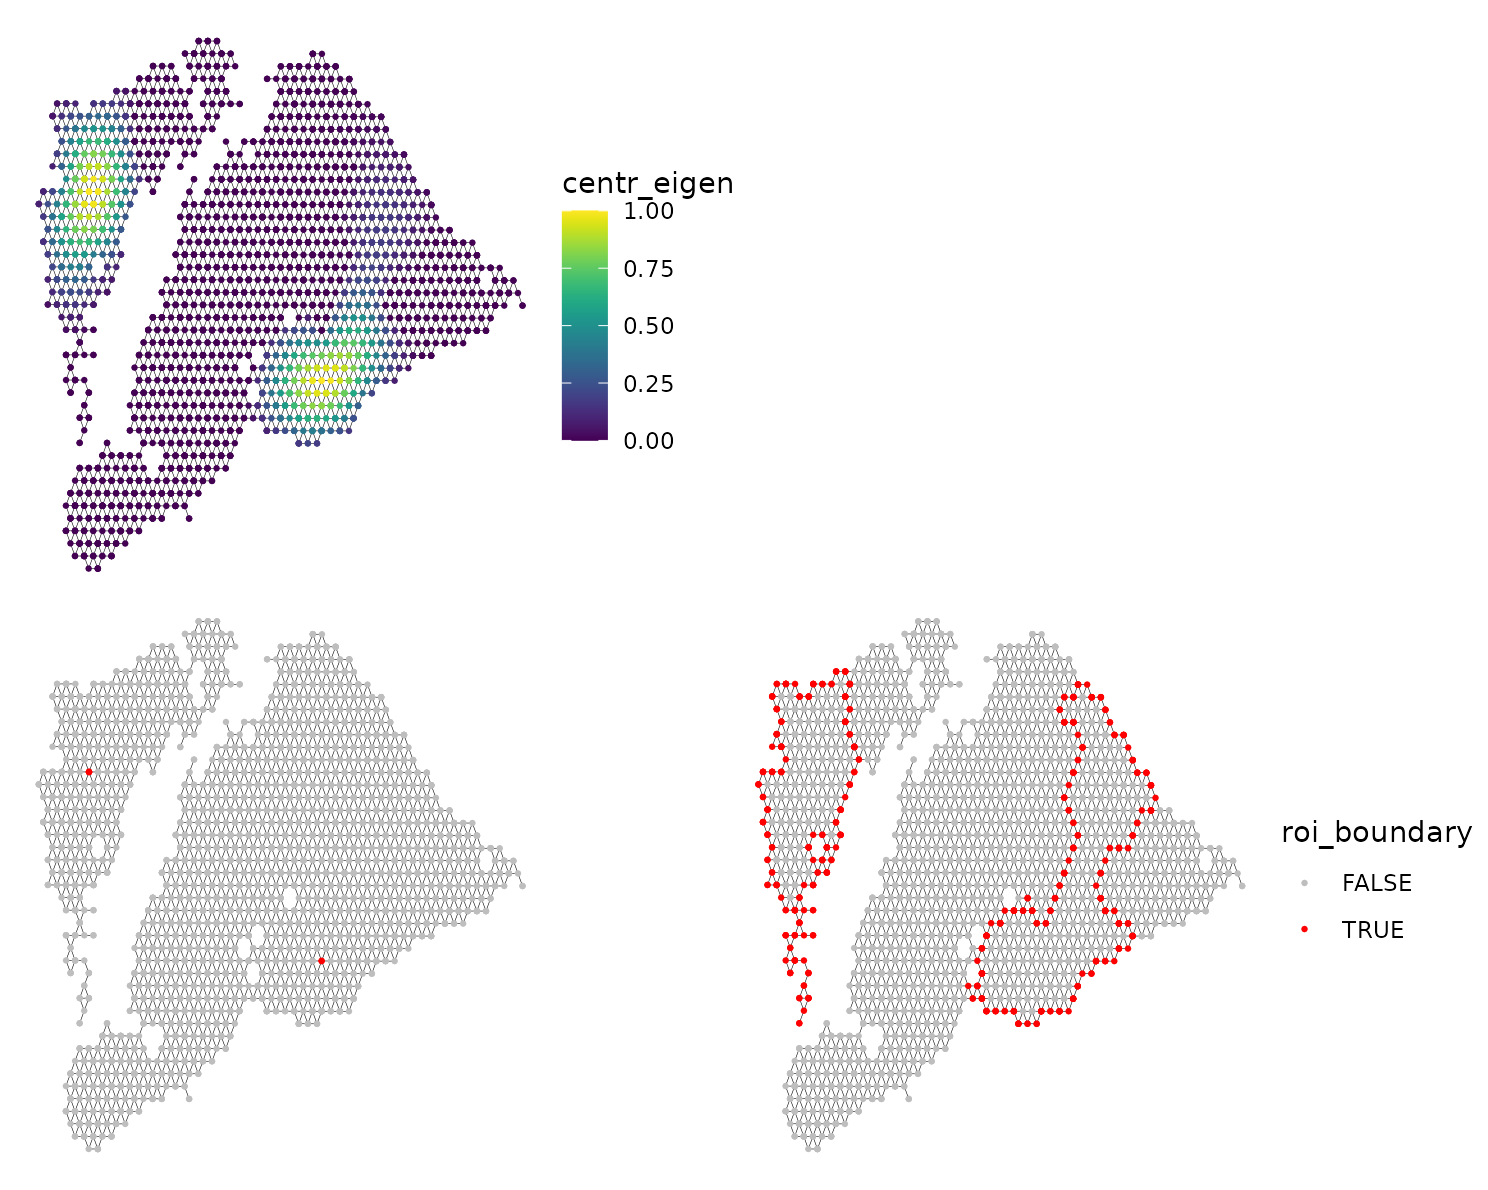
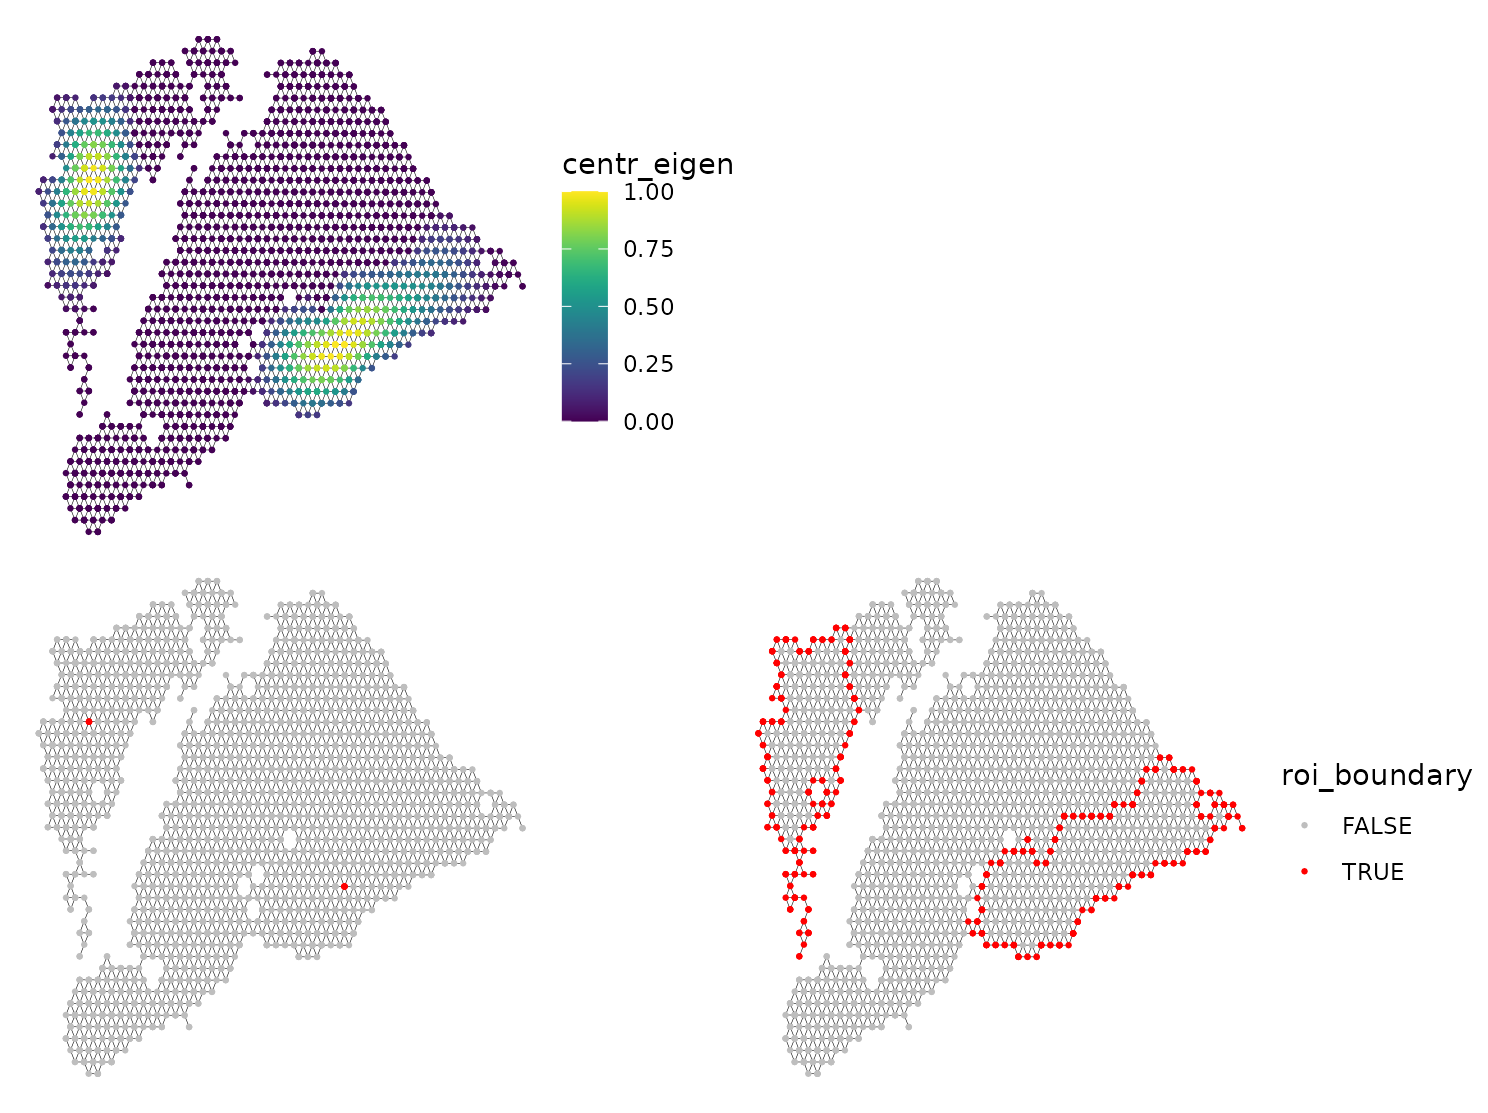
Deploying to gh-pages from @ Sanin-Lab/SpotGraphs@1dc9145fee3cc7eca2e233b6a130dc74d7d875b6 🚀

diff --git a/articles/NeighborhoodCenters.html b/articles/NeighborhoodCenters.html
@@ -103,8 +103,7 @@ to demonstrate <code><a href="../reference/NeighborhoodCenters.html">Neighborhoo
 <span></span>
 <span><span class="va">coord</span> <span class="op">=</span> <span class="fu">Seurat</span><span class="fu">::</span><span class="fu"><a href="https://satijalab.github.io/seurat-object/reference/GetTissueCoordinates.html" class="external-link">GetTissueCoordinates</a></span><span class="op">(</span><span class="va">scc_s1</span><span class="op">)</span></span>
 <span><span class="va">coord</span> <span class="op">=</span> <span class="fu"><a href="https://rdrr.io/r/base/data.frame.html" class="external-link">data.frame</a></span><span class="op">(</span>x <span class="op">=</span> <span class="va">coord</span><span class="op">$</span><span class="va">x</span>, y <span class="op">=</span> <span class="op">-</span><span class="va">coord</span><span class="op">$</span><span class="va">y</span><span class="op">)</span></span></code></pre></div>
-<p>Perform some spot-level filtering (in the same fashion as in the
-Getting Starting vignette)</p>
+<p>Perform some spot-level filtering (in the same fashion as in the <a href="SpotGraphs.Rmd">Get Started</a> vignette.</p>
 <div class="sourceCode" id="cb3"><pre class="downlit sourceCode r">
 <code class="sourceCode R"><span><span class="va">ig</span> <span class="op">=</span> <span class="fu"><a href="../reference/SpotGraph.html">SpotGraph</a></span><span class="op">(</span><span class="va">coord</span><span class="op">)</span></span>
 <span><span class="va">cl</span> <span class="op">=</span> <span class="fu">igraph</span><span class="fu">::</span><span class="fu"><a href="https://r.igraph.org/reference/cluster_louvain.html" class="external-link">cluster_louvain</a></span><span class="op">(</span><span class="va">ig</span>, resolution <span class="op">=</span> <span class="fl">0</span><span class="op">)</span></span>
@@ -192,7 +191,7 @@ useful when there are several tumor regions within the same tissue
 section. Here, we select three different clusters as regions of
 interest, instead of just one.</p>
 <div class="sourceCode" id="cb8"><pre class="downlit sourceCode r">
-<code class="sourceCode R"><span><span class="va">roi</span> <span class="op">=</span> <span class="va">cl</span><span class="op">$</span><span class="va">membership</span> <span class="op"><a href="https://rdrr.io/r/base/match.html" class="external-link">%in%</a></span> <span class="fu"><a href="https://rdrr.io/r/base/c.html" class="external-link">c</a></span><span class="op">(</span><span class="st">'2'</span>, <span class="st">'4'</span>, <span class="st">'5'</span><span class="op">)</span></span>
+<code class="sourceCode R"><span><span class="va">roi</span> <span class="op">=</span> <span class="va">cl</span><span class="op">$</span><span class="va">membership</span> <span class="op"><a href="https://rdrr.io/r/base/match.html" class="external-link">%in%</a></span> <span class="fu"><a href="https://rdrr.io/r/base/c.html" class="external-link">c</a></span><span class="op">(</span><span class="st">'2'</span>, <span class="st">'5'</span>, <span class="st">'7'</span><span class="op">)</span></span>
 <span><span class="fu"><a href="https://rdrr.io/r/base/names.html" class="external-link">names</a></span><span class="op">(</span><span class="va">roi</span><span class="op">)</span> <span class="op">=</span> <span class="fu"><a href="https://rdrr.io/r/base/names.html" class="external-link">names</a></span><span class="op">(</span><span class="fu">igraph</span><span class="fu">::</span><span class="fu"><a href="https://r.igraph.org/reference/V.html" class="external-link">V</a></span><span class="op">(</span><span class="va">ig</span><span class="op">)</span><span class="op">)</span></span>
 <span><span class="va">res</span> <span class="op">=</span> <span class="fu"><a href="../reference/NeighborhoodCenters.html">NeighborhoodCenters</a></span><span class="op">(</span>coord <span class="op">=</span> <span class="va">coord</span>, is_neighborhood <span class="op">=</span> <span class="va">roi</span><span class="op">)</span></span></code></pre></div>
 <div class="sourceCode" id="cb9"><pre class="downlit sourceCode r">

diff --git a/articles/Interoperability.html b/articles/Interoperability.html
@@ -154,7 +154,7 @@ extract all of the results at once with
 <span><span class="fu"><a href="https://rdrr.io/r/utils/head.html" class="external-link">head</a></span><span class="op">(</span><span class="va">df</span><span class="op">)</span></span>
 <span><span class="co">#&gt;                 name coord_x coord_y is_boundary cluster ecc   centrality</span></span>
 <span><span class="co">#&gt; 1 AAACAAGTATCTCCCA-1    7438    9389       FALSE       1  69 3.244117e-01</span></span>
-<span><span class="co">#&gt; 2 AAACAATCTACTAGCA-1    1802    5327        TRUE       2   6 1.817706e-16</span></span>
+<span><span class="co">#&gt; 2 AAACAATCTACTAGCA-1    1802    5327        TRUE       2   6 4.306545e-16</span></span>
 <span><span class="co">#&gt; 3 AAACACCAATAACTGC-1    8514    3670        TRUE       3  75 3.573227e-02</span></span>
 <span><span class="co">#&gt; 4 AAACAGAGCGACTCCT-1    3122    8840       FALSE       4  64 8.092829e-02</span></span>
 <span><span class="co">#&gt; 5 AAACAGTGTTCCTGGG-1   10193    5323       FALSE       5  74 1.289729e-01</span></span>
@@ -184,7 +184,7 @@ the SpatialExperiment object.</p>
 <span><span class="co">#&gt;                     cluster       ecc  centrality</span></span>
 <span><span class="co">#&gt;                    &lt;factor&gt; &lt;numeric&gt;   &lt;numeric&gt;</span></span>
 <span><span class="co">#&gt; AAACAAGTATCTCCCA-1        1        69 3.24412e-01</span></span>
-<span><span class="co">#&gt; AAACAATCTACTAGCA-1        2         6 1.81771e-16</span></span>
+<span><span class="co">#&gt; AAACAATCTACTAGCA-1        2         6 4.30655e-16</span></span>
 <span><span class="co">#&gt; AAACACCAATAACTGC-1        3        75 3.57323e-02</span></span>
 <span><span class="co">#&gt; AAACAGAGCGACTCCT-1        4        64 8.09283e-02</span></span>
 <span><span class="co">#&gt; AAACAGTGTTCCTGGG-1        5        74 1.28973e-01</span></span>

diff --git a/articles/SpotGraphs.html b/articles/SpotGraphs.html
@@ -126,9 +126,9 @@ the spots on our slide.</p>
 <span></span>
 <span><span class="va">ig</span> <span class="op">=</span> <span class="fu"><a href="../reference/SpotGraph.html">SpotGraph</a></span><span class="op">(</span>coord <span class="op">=</span> <span class="va">coord</span><span class="op">)</span></span>
 <span><span class="va">ig</span></span>
-<span><span class="co">#&gt; IGRAPH d4b129d UN-- 1185 3189 -- </span></span>
+<span><span class="co">#&gt; IGRAPH 56e6f9e UN-- 1185 3189 -- </span></span>
 <span><span class="co">#&gt; + attr: name (v/c), coord_x (v/n), coord_y (v/n), is_boundary (v/l)</span></span>
-<span><span class="co">#&gt; + edges from d4b129d (vertex names):</span></span>
+<span><span class="co">#&gt; + edges from 56e6f9e (vertex names):</span></span>
 <span><span class="co">#&gt;  [1] 1 --175  1 --522  1 --562  1 --718  1 --983  1 --1073 2 --86   2 --1130</span></span>
 <span><span class="co">#&gt;  [9] 3 --31   3 --326  3 --358  3 --680  3 --696  3 --1168 4 --37   4 --38  </span></span>
 <span><span class="co">#&gt; [17] 4 --128  4 --216  4 --691  4 --1109 5 --473  5 --734  5 --799  5 --807 </span></span>

diff --git a/articles/Interoperability.md b/articles/Interoperability.md
@@ -109,7 +109,7 @@ df = as.data.frame(vertex_attr(ig))
 head(df)
 #>                 name coord_x coord_y is_boundary cluster ecc   centrality
 #> 1 AAACAAGTATCTCCCA-1    7438    9389       FALSE       1  69 3.244117e-01
-#> 2 AAACAATCTACTAGCA-1    1802    5327        TRUE       2   6 1.817706e-16
+#> 2 AAACAATCTACTAGCA-1    1802    5327        TRUE       2   6 4.306545e-16
 #> 3 AAACACCAATAACTGC-1    8514    3670        TRUE       3  75 3.573227e-02
 #> 4 AAACAGAGCGACTCCT-1    3122    8840       FALSE       4  64 8.092829e-02
 #> 5 AAACAGTGTTCCTGGG-1   10193    5323       FALSE       5  74 1.289729e-01
@@ -142,7 +142,7 @@ head(colData(spe))
 #>                     cluster       ecc  centrality
 #>                    <factor> <numeric>   <numeric>
 #> AAACAAGTATCTCCCA-1        1        69 3.24412e-01
-#> AAACAATCTACTAGCA-1        2         6 1.81771e-16
+#> AAACAATCTACTAGCA-1        2         6 4.30655e-16
 #> AAACACCAATAACTGC-1        3        75 3.57323e-02
 #> AAACAGAGCGACTCCT-1        4        64 8.09283e-02
 #> AAACAGTGTTCCTGGG-1        5        74 1.28973e-01

diff --git a/articles/NeighborhoodCenters.md b/articles/NeighborhoodCenters.md
@@ -39,8 +39,9 @@ coord = Seurat::GetTissueCoordinates(scc_s1)
 coord = data.frame(x = coord$x, y = -coord$y)
 ```
 
-Perform some spot-level filtering (in the same fashion as in the Getting
-Starting vignette)
+Perform some spot-level filtering (in the same fashion as in the [Get
+Started](https://potential-adventure-or7z9q9.pages.github.io/articles/SpotGraphs.Rmd)
+vignette.
 
 ``` r
 ig = SpotGraph(coord)
@@ -141,7 +142,7 @@ regions within the same tissue section. Here, we select three different
 clusters as regions of interest, instead of just one.
 
 ``` r
-roi = cl$membership %in% c('2', '4', '5')
+roi = cl$membership %in% c('2', '5', '7')
 names(roi) = names(igraph::V(ig))
 res = NeighborhoodCenters(coord = coord, is_neighborhood = roi)
 ```

diff --git a/articles/SpotGraphs.md b/articles/SpotGraphs.md
@@ -59,9 +59,9 @@ head(coord)
 
 ig = SpotGraph(coord = coord)
 ig
-#> IGRAPH d4b129d UN-- 1185 3189 -- 
+#> IGRAPH 56e6f9e UN-- 1185 3189 -- 
 #> + attr: name (v/c), coord_x (v/n), coord_y (v/n), is_boundary (v/l)
-#> + edges from d4b129d (vertex names):
+#> + edges from 56e6f9e (vertex names):
 #>  [1] 1 --175  1 --522  1 --562  1 --718  1 --983  1 --1073 2 --86   2 --1130
 #>  [9] 3 --31   3 --326  3 --358  3 --680  3 --696  3 --1168 4 --37   4 --38  
 #> [17] 4 --128  4 --216  4 --691  4 --1109 5 --473  5 --734  5 --799  5 --807 
